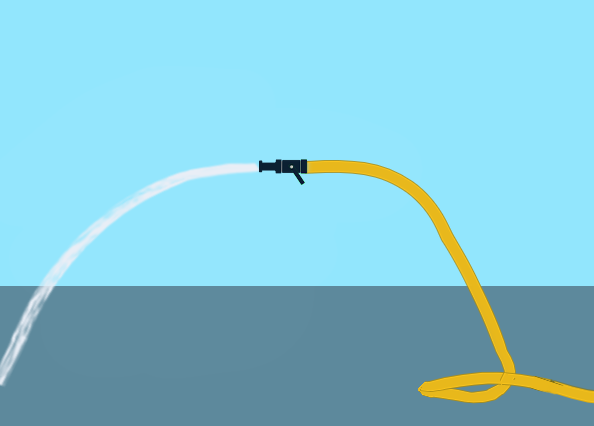
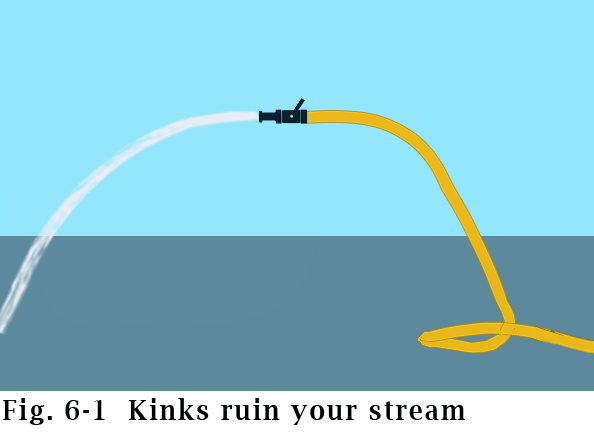
Added captions to 6-1, 6-2

diff --git a/GPM.html b/GPM.html
@@ -86,15 +86,15 @@
 
 <p>The knockdown margin's reference point is the smallest flow that will black the fire out.&nbsp; Any flow less than RP-Knockdown will fail to kill the fire.&nbsp; Any flow more than RP-Knockdown will give you a margin of safety.&nbsp; The actual number varies from fire to fire, so for planning purposes we take 30 gpm as an adequate residential RP-Knockdown.&nbsp; It would easily cope with all but the largest residential rooms.</p>	
 
-<p>As with most safety margins, distance above the reference point will limit the benefit of a margin increase.&nbsp; If your RP is 30, a flow increase from 40 to 60 would have much more value than a boost from 140 to 160.&nbsp; It’s unlikely that the higher numbers would ever come into play.</p>
+<p>As with most safety margins, distance above the reference point will limit the benefit of a margin increase.&nbsp; If your RP is 30, a flow increase from 40 to 60 would have much more value than a boost from 140 to 160.&nbsp; It’s unlikely that the higher numbers would ever come into play.</p><p>&nbsp;</p>
 	
 <p>
-	<img src="images/GPMsafetyMargins.png"  alt="" style="width:50%;margin-left:23%"/>
+	<img src="images/GPMsafetyMargins.png"  alt="" style="width:52%;margin-left:22%"/>
 	
 </p>
 	
-<p>&nbsp;</p>
-<p>This figure shows that, when some departments pushed residential target flows from 100 gpm to 150, they expanded knockdown margins that were already large.&nbsp; Any risk reduction was tiny.&nbsp; Their kink margins shrank if they changed from adjustable-flow to fixed-flow nozzles (e.g. automatic to smooth-bore); grew if they kept adjustable-flow; and stayed the same if they kept fixed-flow.&nbsp; So the only benefit of the flow increase went to departments that had adjustable-flow nozzles and stayed with them.&nbsp;  They saw a decline of their risk from kinks.</p>	
+
+<p>Figure 6-2 shows that, when some departments pushed residential target flows from 100 gpm to 150, they expanded knockdown margins that were already large.&nbsp; Any risk reduction was tiny.&nbsp; Their kink margins shrank if they changed from adjustable-flow to fixed-flow nozzles (e.g. automatic to smooth-bore); grew if they kept adjustable-flow; and stayed the same if they kept fixed-flow.&nbsp; So the only benefit of the flow increase went to departments that had adjustable-flow nozzles and stayed with them.&nbsp;  They saw a decline of their risk from kinks.</p>	
 	
 <br>
 	
@@ -108,7 +108,7 @@
 
 <p>You're safer and more effective if you take a disciplined approach to exertion efficiency and water efficiency. </p>	
 	
-<p>But don't stop there.&nbsp; Study more tradeoffs:&nbsp; maneuverability, stream-reach, adaptivity, false sense of security, misdirection of training, water damage, water weight.&nbsp; See the whole board.&nbsp; Think beyond room knockdown—it's often the easy part.&nbsp; </p>
+<p>But don't stop there.&nbsp; Study more tradeoffs:&nbsp; maneuverability, stream reach, adaptivity, false sense of security, misdirection of training, water damage, water weight.&nbsp; See the whole board.&nbsp; Think beyond room knockdown—it's often the easy part.&nbsp; </p>
 	
 <p>Remember that the tradeoffs are real and the bandwagon should spark skepticism:</p>	
 	
